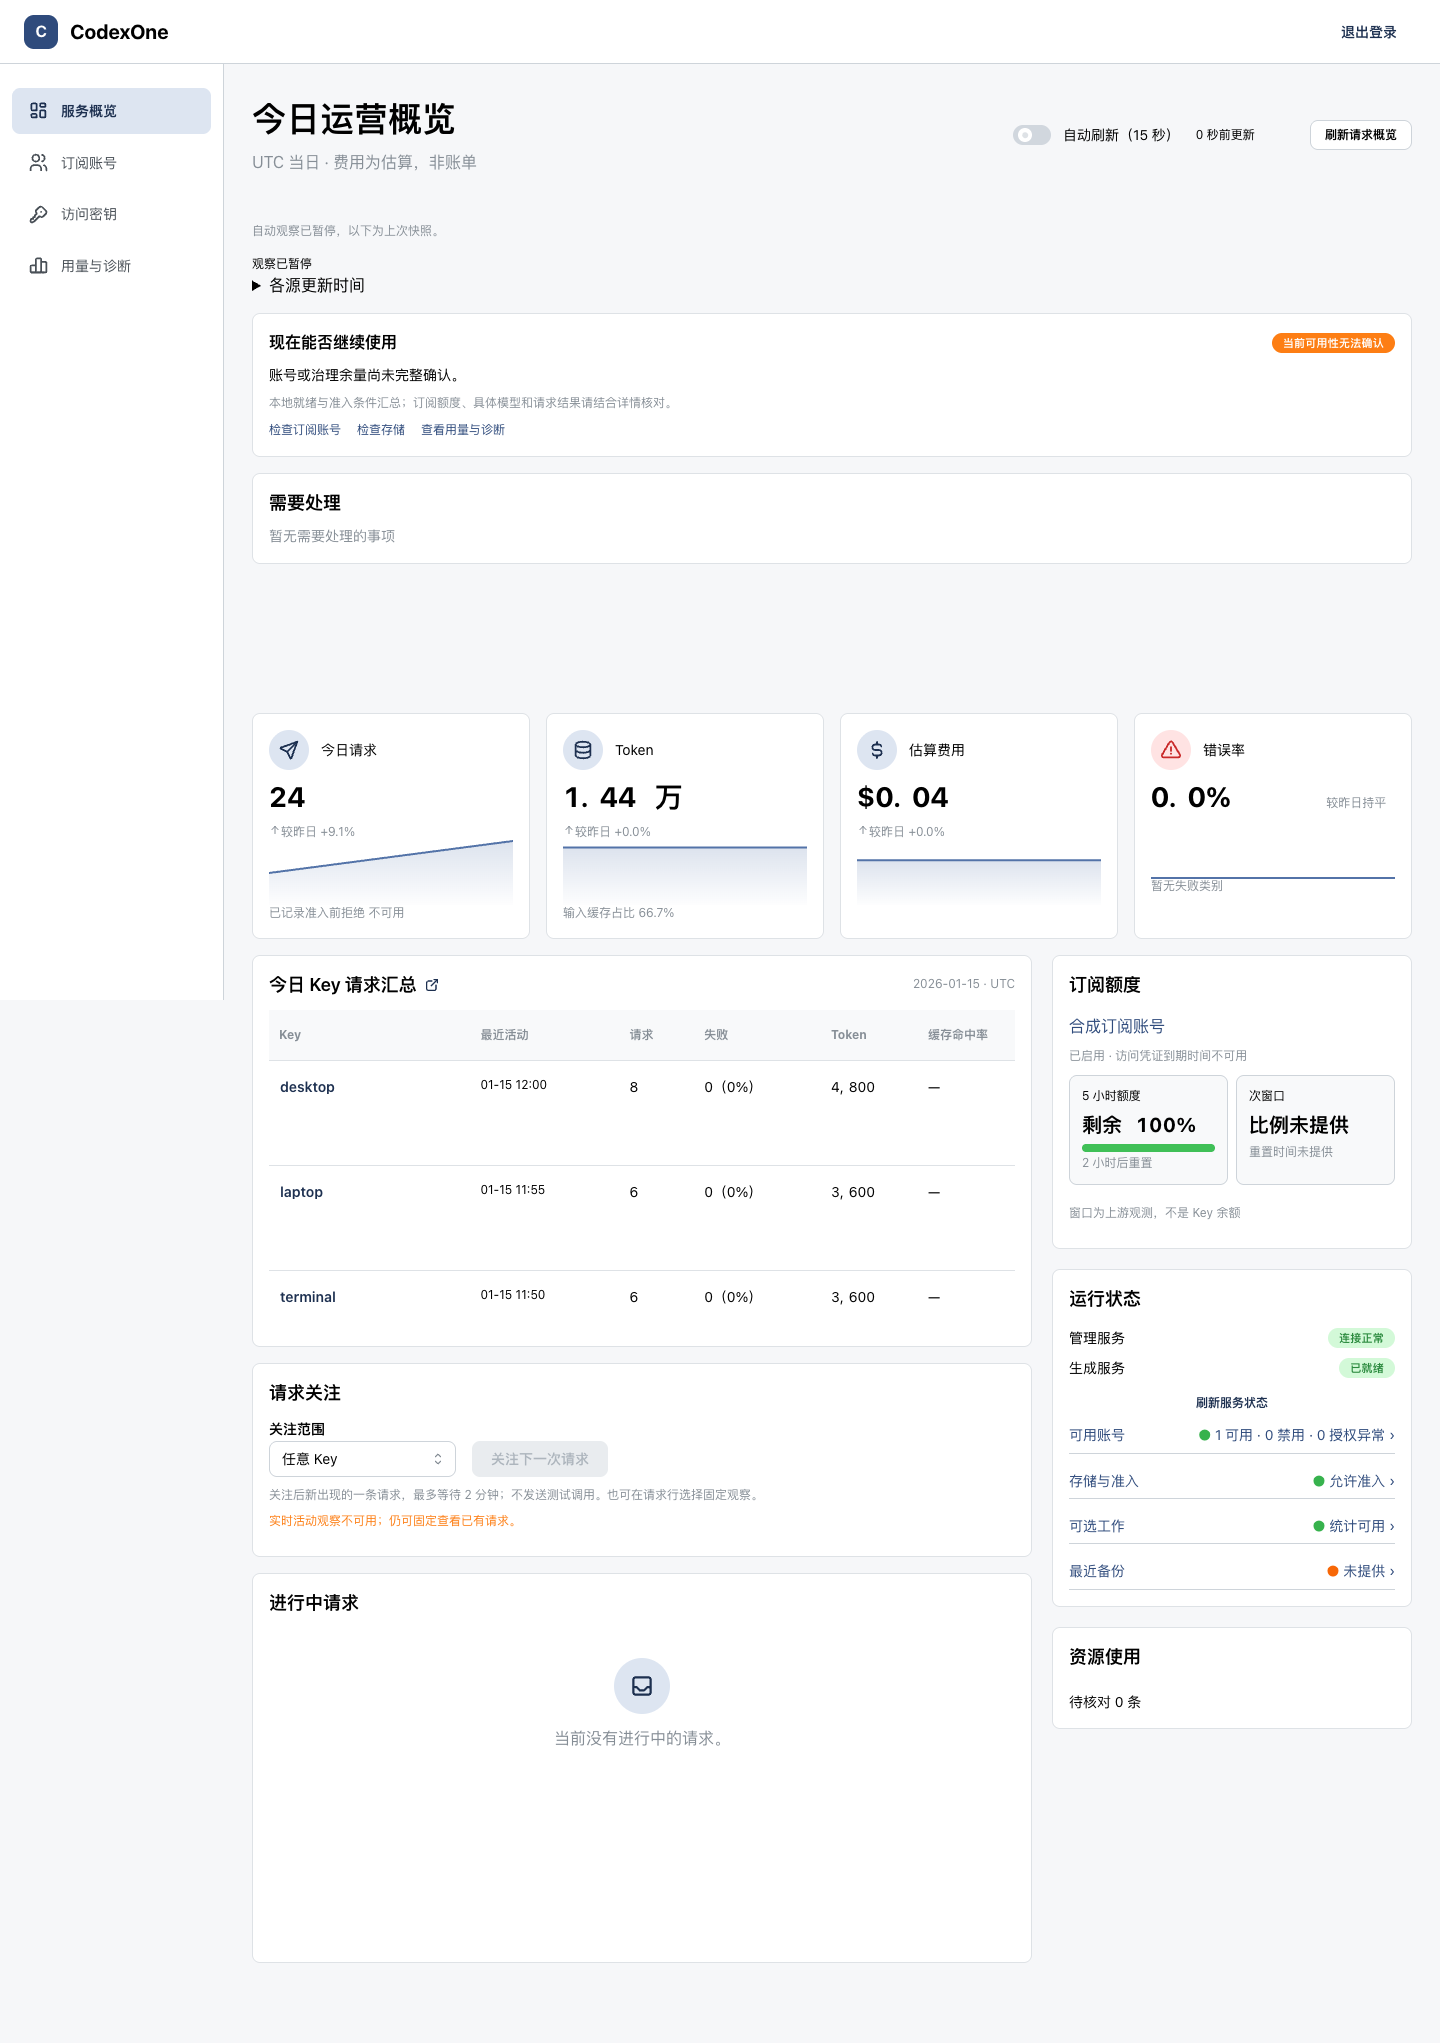
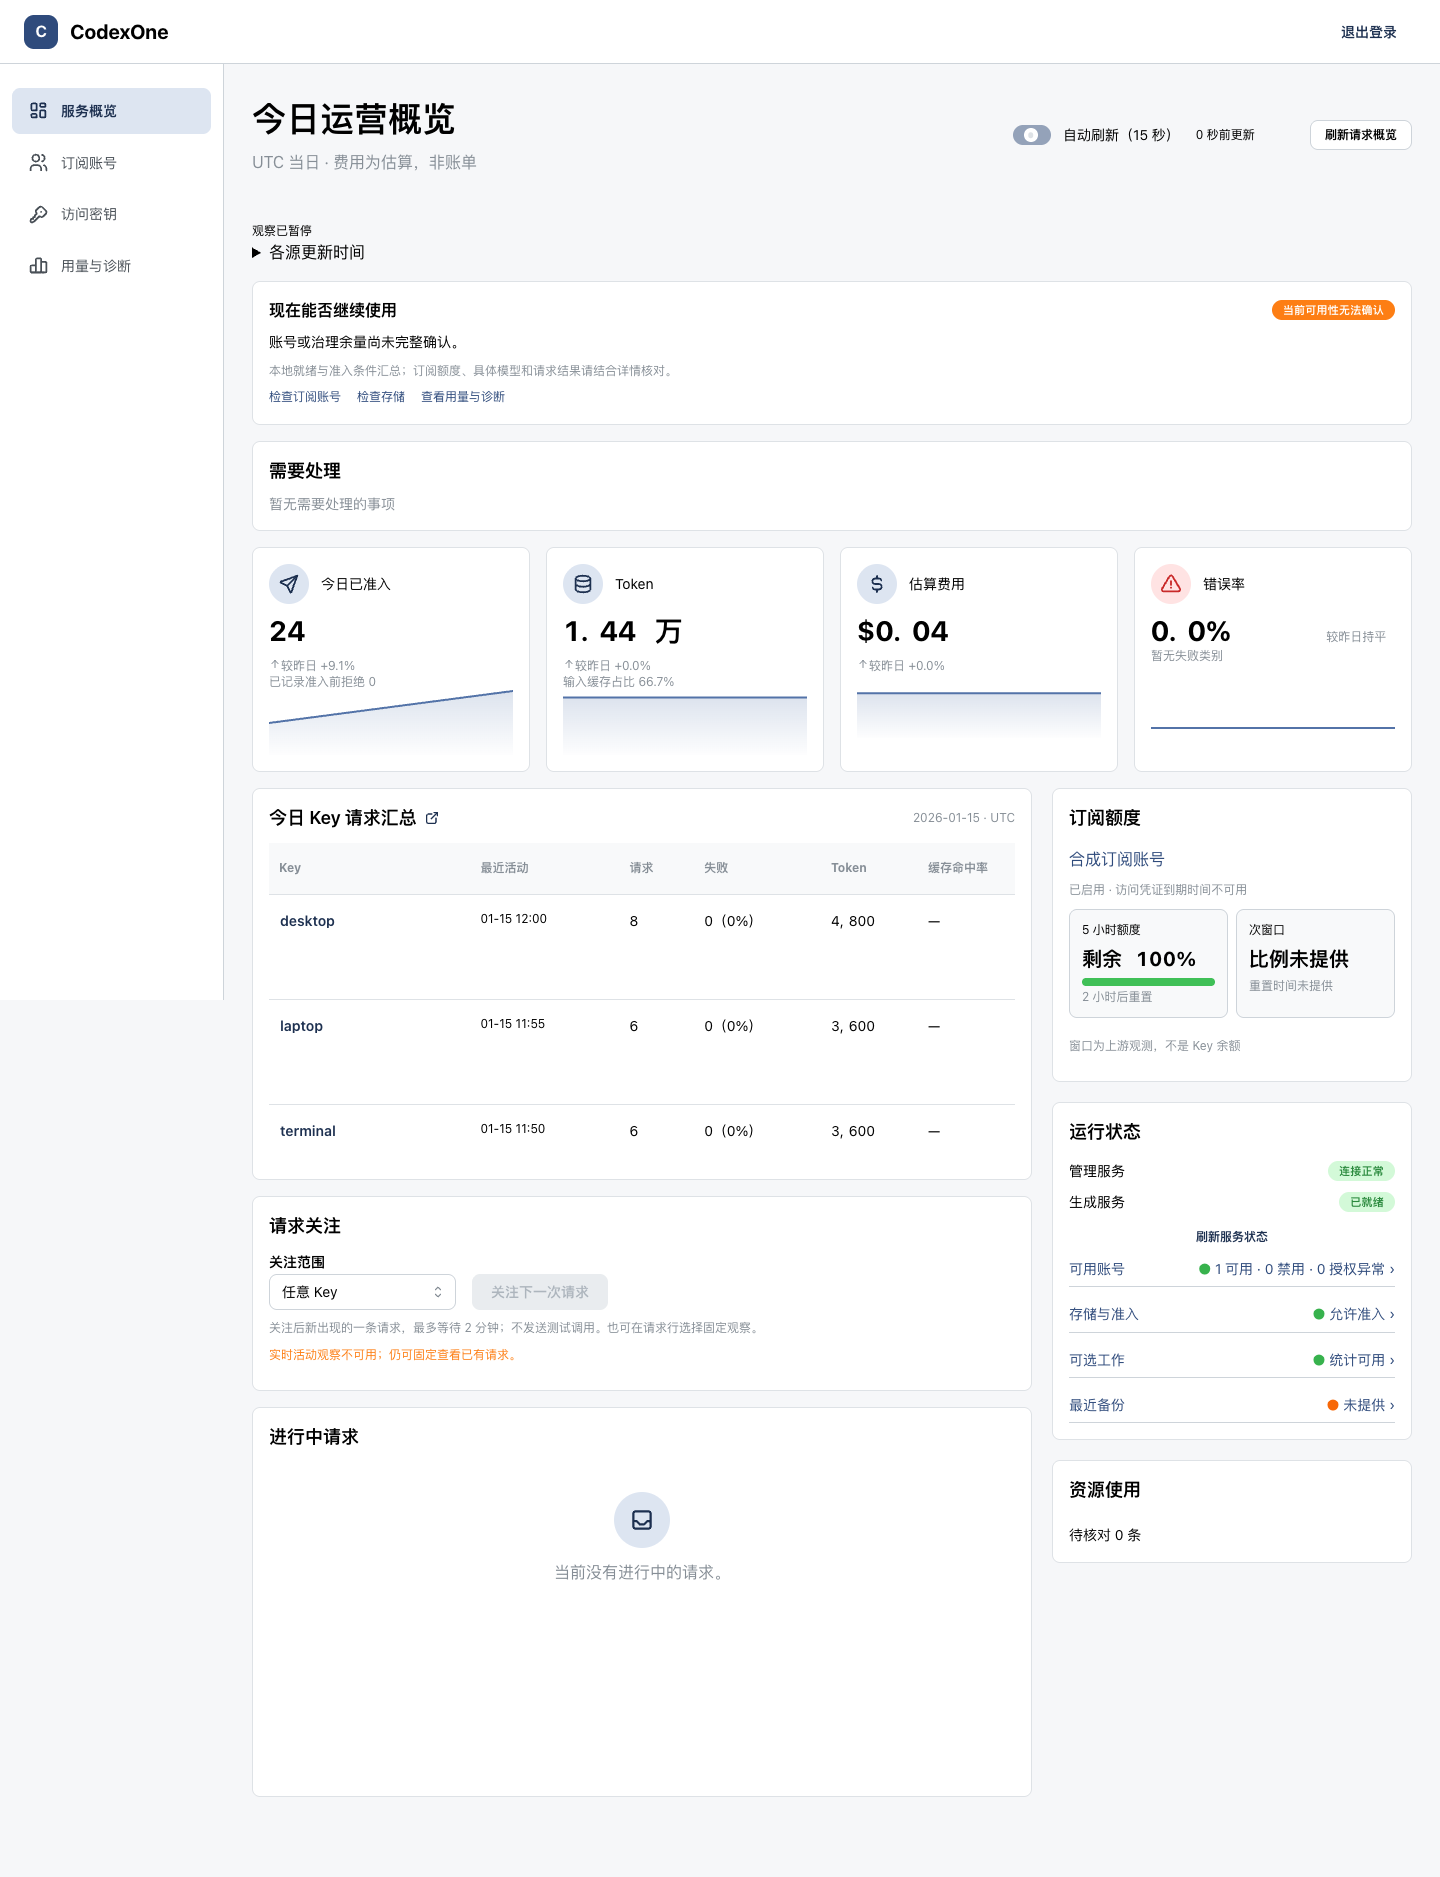
Refine overview request metrics and alert layout

diff --git a/web/src/features/system-status/AttentionPanel.tsx b/web/src/features/system-status/AttentionPanel.tsx
@@ -30,7 +30,6 @@ export function AttentionPanel({
   release,
   aggregateErrors = false,
   inlineAccounts = false,
-  continuous = false,
 }: {
   items?: AttentionItem[];
   loading: boolean;
@@ -40,7 +39,6 @@ export function AttentionPanel({
   release?: (item: AttentionItem) => void;
   aggregateErrors?: boolean;
   inlineAccounts?: boolean;
-  continuous?: boolean;
 }) {
   const toggle = useRef<HTMLButtonElement>(null);
   const [expanded, setExpanded] = useState(false);
@@ -79,30 +77,10 @@ export function AttentionPanel({
         </Text>
       ) : (
         <Stack gap="xs">
-          <div
-            className={
-              continuous ? styles.attentionSlots : styles.attentionList
-            }
-            style={
-              continuous
-                ? {
-                    height:
-                      (expanded
-                        ? ordered.length
-                        : Math.min(5, ordered.length)) * 80,
-                  }
-                : undefined
-            }
-          >
-            {(expanded ? ordered : ordered.slice(0, 5)).map((item, index) => (
+          <div className={styles.attentionList}>
+            {(expanded ? ordered : ordered.slice(0, 5)).map((item) => (
               <Alert
                 key={`${item.kind}-${item.subjectType}-${item.subjectID ?? "system"}-${String(item.detail.source ?? "")}`}
-                className={continuous ? styles.attentionSlot : undefined}
-                style={
-                  continuous
-                    ? { transform: `translateY(${index * 80}px)` }
-                    : undefined
-                }
                 p={item.severity === "critical" ? "sm" : "6px 0"}
                 variant={item.severity === "critical" ? "light" : "transparent"}
                 color={item.severity === "critical" ? "red" : "yellow"}
@@ -131,23 +109,7 @@ export function AttentionPanel({
                   size="sm"
                   aria-label={attentionMessage(item, accounts)}
                 >
-                  {continuous
-                    ? attentionMessage(item, accounts)
-                        .split(/([0-9][0-9.,%]*)/g)
-                        .map((part, index) =>
-                          /^[0-9]/.test(part) ? (
-                            <span
-                              className={styles.attentionNumber}
-                              key={index}
-                            >
-                              {part}
-                            </span>
-                          ) : (
-                            part
-                          ),
-                        )
-                    : attentionMessage(item, accounts)}{" "}
-                  ›
+                  {attentionMessage(item, accounts)} ›
                 </Anchor>
                 {item.kind === "unresolved_executions" && release && (
                   <Button

diff --git a/web/tests/e2e/overview-phase2.spec.ts b/web/tests/e2e/overview-phase2.spec.ts
@@ -161,7 +161,7 @@ test("overview keeps accessible trends, principal names, details and responsive 
     page.getByRole("heading", { name: "今日运营概览" }),
   ).toBeVisible();
   await expect(
-    page.getByRole("img", { name: /^今日请求近 7 天/ }),
+    page.getByRole("img", { name: /^今日已准入近 7 天/ }),
   ).toBeVisible();
   await expect(
     page.getByRole("row").filter({ hasText: "synthetic-text" }).first(),
@@ -172,6 +172,12 @@ test("overview keeps accessible trends, principal names, details and responsive 
   await page.setViewportSize({ width: 390, height: 844 });
   await rejected.scrollIntoViewIfNeeded();
   await expect(rejected).toBeInViewport();
+  await page
+    .getByRole("region", { name: "需要处理", exact: true })
+    .evaluate((panel) => panel.scrollIntoView({ block: "start" }));
+  await expect(page.getByRole("link", { name: /x-codex-n+/ })).toBeInViewport({
+    ratio: 1,
+  });
   await page.setViewportSize(viewport);
   await expect(page.getByText("hidden-key-identifier")).toHaveCount(0);
   await expect(

diff --git a/web/src/features/system-status/OverviewStats.tsx b/web/src/features/system-status/OverviewStats.tsx
@@ -94,7 +94,7 @@ export function OverviewStats({
     : 0;
   const cards = [
     {
-      label: "今日请求",
+      label: "今日已准入",
       value: today ? compactCount(today.requests) : "—",
       exact: today?.requests.toLocaleString("zh-CN"),
       values: buckets.map((b) => b.requests),
@@ -242,6 +242,11 @@ export function OverviewStats({
                   </Text>
                 )}
               </Group>
+              {card.note && (
+                <Text size="xs" c="dimmed">
+                  {card.note}
+                </Text>
+              )}
               <Sparkline label={card.label} values={card.values} />
               {capacities
                 ?.filter(
@@ -274,11 +279,6 @@ export function OverviewStats({
                     </Text>
                   </Tooltip>
                 ))}
-              {card.note && (
-                <Text size="xs" c="dimmed">
-                  {card.note}
-                </Text>
-              )}
             </>
           )}
         </Paper>

diff --git a/web/src/features/system-status/overview.module.css b/web/src/features/system-status/overview.module.css
@@ -114,7 +114,7 @@
 }
 
 .attentionViewport {
-  block-size: 14rem;
+  max-block-size: 20rem;
   overflow: auto;
   scrollbar-gutter: stable;
 }
@@ -130,34 +130,10 @@
   flex-direction: column;
   gap: 8px;
 }
-.attentionSlots {
-  position: relative;
-  font-variant-numeric: tabular-nums;
-}
-.attentionSlot {
-  position: absolute;
-  inset-inline: 0;
-  inset-block-start: 0;
-  height: 72px;
-  overflow: auto;
-  transition: transform 250ms ease-out;
-}
 .attentionViewport section > :first-child > p {
   min-width: 26ch;
   text-align: left;
 }
-@media (prefers-reduced-motion: reduce) {
-  .attentionSlot {
-    transition: none;
-  }
-}
-
-.attentionNumber {
-  display: inline-block;
-  min-width: 6ch;
-  font-variant-numeric: tabular-nums;
-}
-
 .sourceSummary {
   list-style-position: inside;
   white-space: nowrap;

diff --git a/web/tests/e2e/docs-screenshots.spec.ts b/web/tests/e2e/docs-screenshots.spec.ts
@@ -70,6 +70,7 @@ test("render synthetic documentation screenshots", async ({ page }) => {
         buckets: Array.from({ length: 7 }, (_, i) => ({
           atUnixSeconds: Math.floor(now / 86400) * 86400 - (6 - i) * 86400,
           requests: 12 + i * 2,
+          recordedRejections: 0,
           succeeded: 12 + i * 2,
           failed: 0,
           cancelled: 0,
@@ -107,7 +108,7 @@ test("render synthetic documentation screenshots", async ({ page }) => {
   await page.goto("/");
   await expect(page.getByText("合成订阅账号", { exact: true })).toBeVisible();
   await expect(
-    page.getByRole("img", { name: /^今日请求近 7 天/ }),
+    page.getByRole("img", { name: /^今日已准入近 7 天/ }),
   ).toBeVisible();
   await expect(page.getByRole("alert")).toHaveCount(0);
   await expect(

diff --git a/web/tests/e2e/admin-round2.spec.ts b/web/tests/e2e/admin-round2.spec.ts
@@ -216,7 +216,7 @@ test("round two overview, usage, account name and key expiration", async ({
   await page.getByRole("link", { name: "服务概览", exact: true }).click();
   const activity = page.getByLabel("请求即时概览");
   await expect(
-    activity.getByRole("img", { name: /^今日请求近 7 天：/ }),
+    activity.getByRole("img", { name: /^今日已准入近 7 天：/ }),
   ).toBeVisible();
   await expect(activity.getByText("输入缓存占比 80.0%")).toBeVisible();
   await expect(activity.getByText("失败请求中：上游限流占 100%")).toBeVisible();

diff --git a/web/src/features/system-status/ActivityOverview.test.tsx b/web/src/features/system-status/ActivityOverview.test.tsx
@@ -113,7 +113,7 @@ it("keeps trend evidence accessible and shows principal names instead of key ide
     />,
   );
   expect(
-    await screen.findByRole("img", { name: "今日请求近 7 天：4" }),
+    await screen.findByRole("img", { name: "今日已准入近 7 天：4" }),
   ).toBeVisible();
   expect(
     screen.getByRole("img", { name: "Token近 7 天：不可用" }),

diff --git a/web/src/features/system-status/AdminOverview.tsx b/web/src/features/system-status/AdminOverview.tsx
@@ -237,7 +237,6 @@ export function AdminOverview() {
           attention={
             <div className={styles.attentionViewport}>
               <AttentionPanel
-                continuous
                 aggregateErrors
                 inlineAccounts
                 items={attention.data?.items}

diff --git a/web/src/features/system-status/ActivityOverview.tsx b/web/src/features/system-status/ActivityOverview.tsx
@@ -213,7 +213,7 @@ export function ActivityOverview({
           }
         />
       </div>
-      {!control.automatic && (
+      {!control.automatic && !live && (
         <Text size="xs" c="dimmed">
           自动观察已暂停，以下为上次快照。
         </Text>

diff --git a/docs/changes/startup-rejection-visibility/proposal.md b/docs/changes/startup-rejection-visibility/proposal.md
@@ -2,8 +2,9 @@
 
 区分准入前拒绝与已准入请求失败，并保留固定的账号路由拒绝原因，便于定位部署后短时 503。
 
-- 每日汇总复用既有准入前诊断表和业务日、Key、模型、保留期规则。首页显示已记录的准入前拒绝，原请求数、错误率和用量口径沿用。
-- 应用日志保留续接来源不可用、账号暂不可用、账号冷却、凭证刷新等固定类别。公开错误、认证和派发规则沿用。
+- 每日汇总复用既有准入前诊断表和业务日、Key、模型、保留期规则。首页将主指标标为「今日已准入」，在趋势图上方显示已记录的准入前拒绝。原请求数、错误率和用量口径沿用。
+- 应用日志保留续接来源不可用、账号暂不可用、上游过载等待超限、凭证刷新等固定类别。公开错误、认证和派发规则沿用。
+- 首页提醒按内容占用空间，较长列表保留滚动。暂停自动刷新时合并状态提示。
 - 通过本地重建数据服务、保留账号和账本测试跨重启续接边界。线上一组历史 503 的具体原因仍需新增诊断证实。
 
 依据 [协议](../../reference/specs/protocol.md) 与 [管理面](../../reference/specs/control-plane.md) 验证。不新增持久字段，无数据迁移，可回退至上个版本。

diff --git a/docs/changes/startup-rejection-visibility/tasks.md b/docs/changes/startup-rejection-visibility/tasks.md
@@ -12,6 +12,10 @@ macOS arm64 的 509 项 Swift 测试通过。真实 socket 测试重建数据服
 
 业务日脚本、222 项前端测试和桌面及窄屏 Chrome 检查通过。全量 Chrome 首轮有一个实时场景等待超时，使用当前构建串行复验时实时、HTTP 降级和首页断言均通过。
 
+## 首页复验（2026-11-07）
+
+使用合成数据在 Chrome 检查 1440 px 和 390 px 首页，覆盖准入与拒绝数字、第三条长提醒的可见性及暂停刷新。首页相关单测、三个浏览器场景、前端构建、lint 和格式检查通过。
+
 ## 相关文档
 
 [提案](proposal.md)
